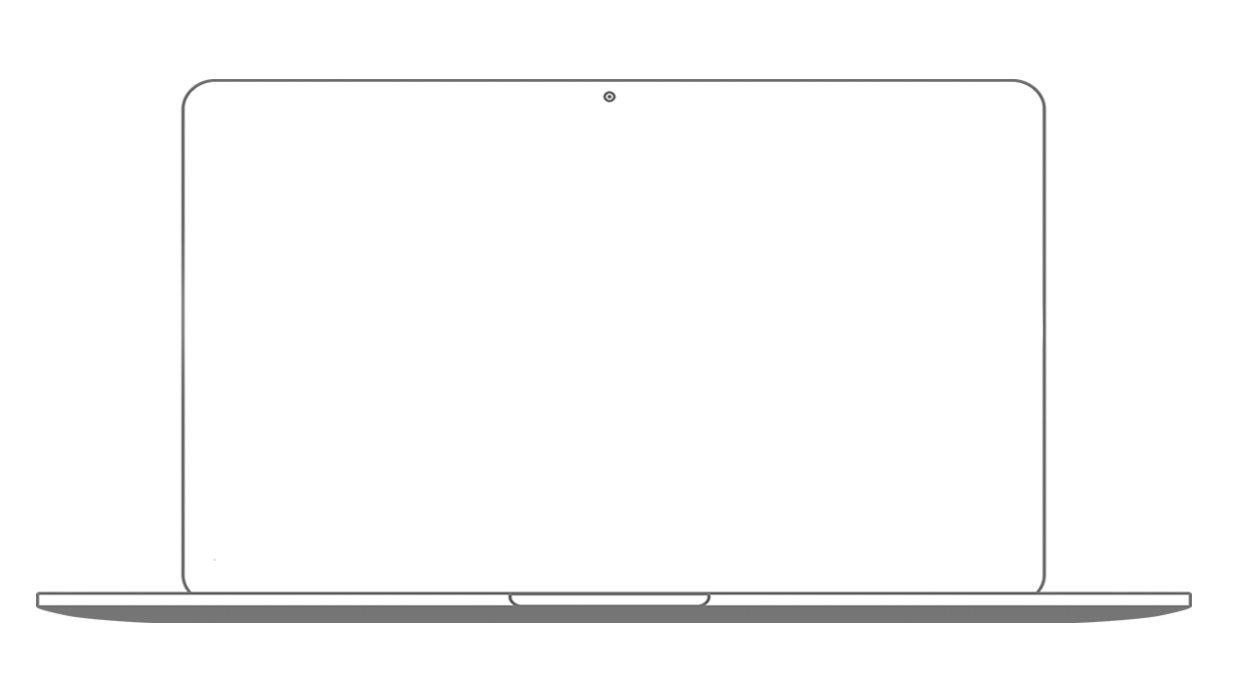
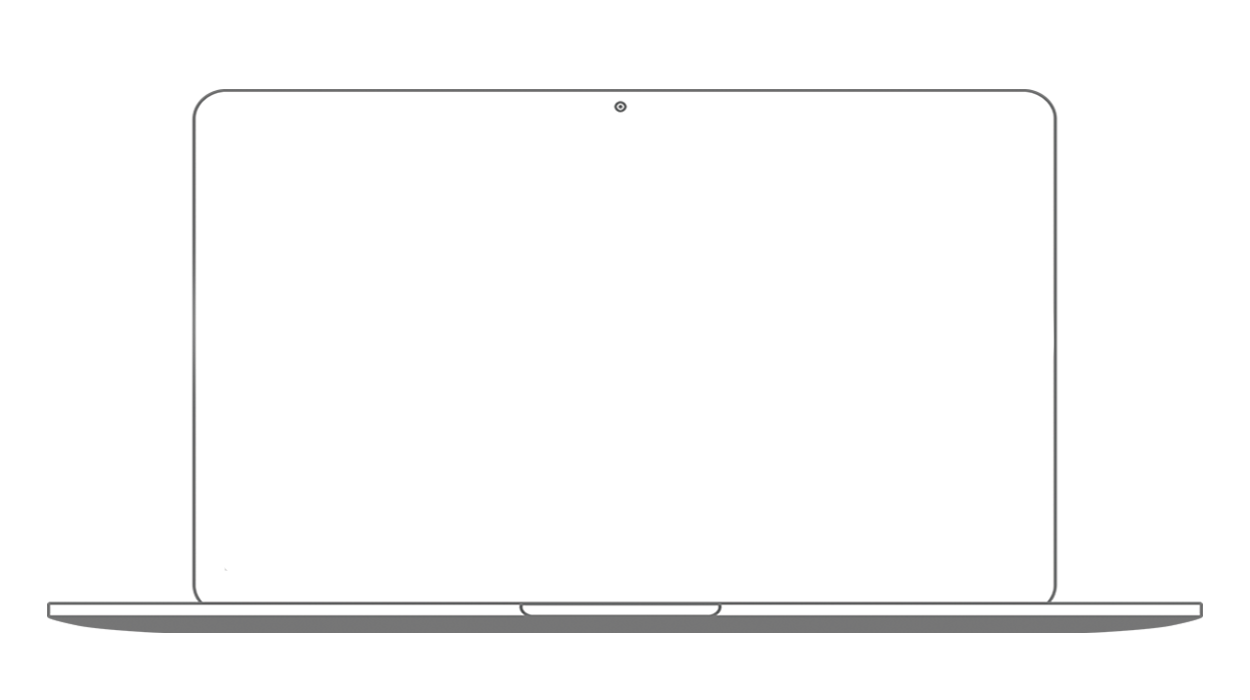
firefox

Changed region(s): [[0.0312, 0.09, 0.9672, 0.93]]

diff --git a/index.html b/index.html
@@ -45,7 +45,7 @@
         <div id="about">
             <div id="my_info" data-aos="zoom-in-right">
                 <!-- <h3>a little bit about me...</h3> -->
-                <h4>A little bit about me...</br></br>My name is Francis, some people call me Frank</h4>
+                <h4>My name is Francis, some people call me Frank</h4>
 
                 <p>
                     </br>
@@ -71,13 +71,12 @@
                         <span>[ Bootstrap ], [ Sass ], [ Ruby on Rails ], [ PostgreSQL ], [ Heroku ]</span>
                     </p>
                     <div class="dev_project dev_project_1">
-                        <h1>test</h1>
                         <!-- <img src="imgs/macbook-air.png" alt="macbook air"> -->
-                        <!-- <video width="100%" height="100%" id="trampoline_vid" muted autoplay loop>
+                        <video width="100%" height="100%" id="trampoline_vid" muted autoplay loop>
                             <source src="videos/trampoline.mp4" type="video/mp4">
                             <source src="videos/trampoline.ogg" type="video/ogg">
                             Your browser does not support the video tag.
-                        </video> -->
+                        </video>
                     </div>
                 </div>
                 <div class="single_dev_project_container">

diff --git a/scss/partials/modules/_development.scss b/scss/partials/modules/_development.scss
@@ -31,21 +31,10 @@
 
             .dev_project {
                 margin: 0 auto;
-                // width: 500px; 
-                // height: 281px; 
-                // background-size:contain;
-                // background-image:url('imgs/macbook-air.png');
-                // background: rgb(243, 243, 243);
-
-                //  10px 20px / 200px 200px
-    
-                // background: rgb(243, 243, 243) url(imgs/macbook-air.png);
-                // background: rgb(243, 243, 243) url(imgs/flower.png);
-
-                width: 1250px;
-                height: 700px;
-                background: rgb(243, 243, 243);
-                background-image: url("imgs/macbook-air.png");
+                width: 100vw;
+                height: 100vh;
+                background: rgb(243, 243, 243)  center center no-repeat / 90% auto;
+                background-image: url("../imgs/macbook-air.png");
 
     
                 // @include extra-small-only {
@@ -71,7 +60,7 @@
 
 
 .picture {
-    width: 500px;
-    height: 281px;
-    background: blue url("imgs/flower.png") 0px 0px / 100% auto;
+    width: 100vw;
+    height: 100vh;
+    background: blue url("../imgs/flower.png") center center no-repeat / 75% auto;
 }

diff --git a/scss/styles.css b/scss/styles.css
@@ -3801,10 +3801,10 @@ h3 {
 
 #dev #dev_projects .single_dev_project_container .dev_project {
   margin: 0 auto;
-  width: 1250px;
-  height: 700px;
-  background: #f3f3f3;
-  background-image: url("imgs/macbook-air.png");
+  width: 100vw;
+  height: 100vh;
+  background: #f3f3f3 center center no-repeat/90% auto;
+  background-image: url("../imgs/macbook-air.png");
   display: flex;
   flex-flow: row nowrap;
   justify-content: center;
@@ -3812,9 +3812,9 @@ h3 {
 }
 
 .picture {
-  width: 500px;
-  height: 281px;
-  background: blue url("imgs/flower.png") 0px 0px/100% auto;
+  width: 100vw;
+  height: 100vh;
+  background: blue url("../imgs/flower.png") center center no-repeat/75% auto;
 }
 
 .contact {
@@ -3830,5 +3830,9 @@ h3 {
 
 .contact .contact_h3 {
   color: #fff;
+}
+
+video {
+  width: 55vw;
 }
 /*# sourceMappingURL=styles.css.map */

diff --git a/scss/partials/modules/_videos.scss b/scss/partials/modules/_videos.scss
@@ -13,3 +13,7 @@
 //     transform: translateX(-64%);
 //     margin-top: -25px;
 // }
+
+video {
+    width: 55vw;
+}
